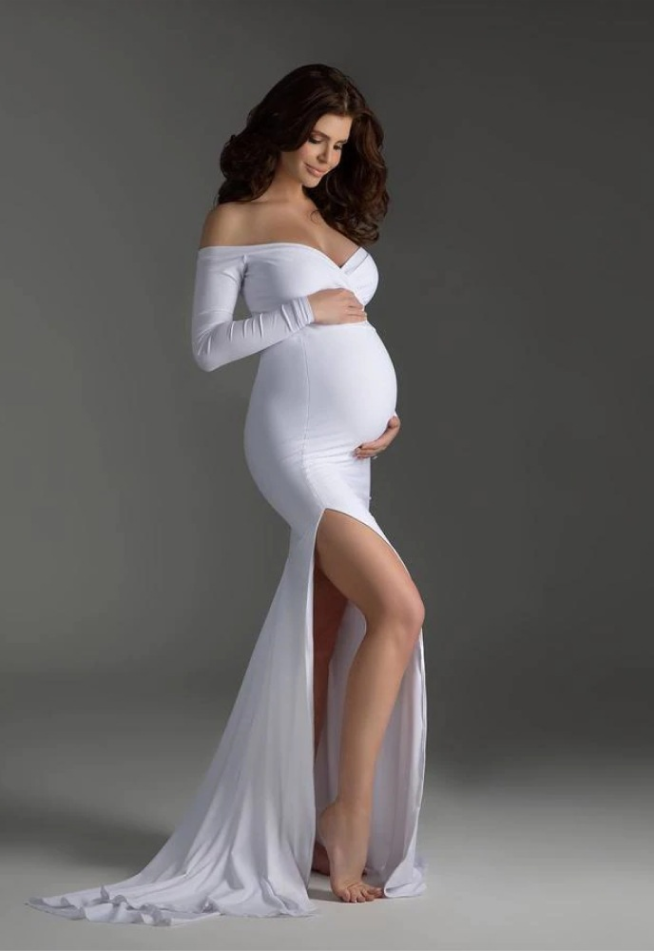
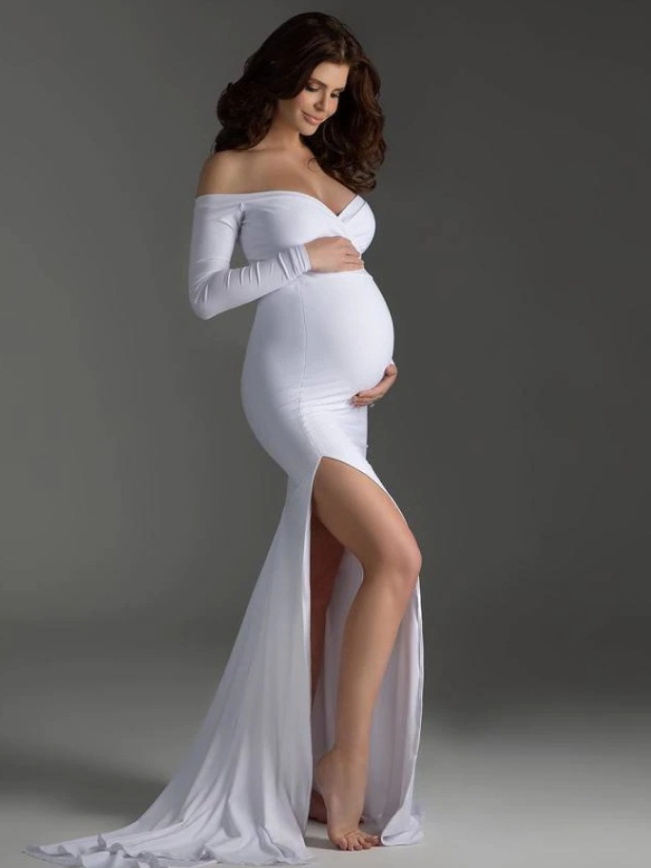
v0.3
1) Lisasin teksti banneri fotole, et see paigal püsiks;
2) tegin kõik pildid väiksemaks, et laadimine oleks kiirem

diff --git a/css/style.css b/css/style.css
@@ -1,55 +1,5 @@
 @import url('https://fonts.googleapis.com/css2?family=Roboto&family=Waiting+for+the+Sunrise&display=swap');
 
-/* vajalikud fondid on:
-menüü
-Font Roboto
-Weight 400, Regular
-Style normal
-Size 24px
-Line height 28.13px
-
-logo
-Font Waiting for the Sunrise
-Weight 300, Light
-Style normal
-Size 64px
-Line height 105.81px
-Letter 10%
-
-piltide all
-Font Roboto
-Weight 400, Regular
-Style normal
-Size 24px
-Line height 28.13px
-Align Center
-
-footeris
-Font Roboto
-Weight 400, Regular
-Style normal
-Size 18px
-Line height 21.09px
-Align Center
-*/
-
-.banner-image img, .main-image img {
-    width: 100%;
-}
-
-.banner-text {       
-    /*kujundus*/
-    font-family: "Waiting for the Sunrise", sans-serif;
-    font-weight: 300;
-    font-size: 64px;
-    line-height: 105.81px;
-    color: #ffffff;
-    /*positsioneerimine*/
-    position: absolute;
-    top: 20%;
-    left: 25%;
-    transform: translate(-50%, -50%);
-}
 
 .menu {
     display: flex;
@@ -66,38 +16,40 @@ Align Center
 }
 
 .nav ul li a {
-    font-family: "Roboto", sans-serif;
+    font-family: "Roboto";
     font-weight: 400;
     font-size: 24px;
     padding: 0 10px 0 10px;
+    color: #000000;
 }
 
-.gallery-image img {
-    width: 75%;
-}
-/*
-header h1 {
-    font-family: "Open Sans", sans-serif;
-    font-weight: 700;
-    font-size: 40px;
-    color: #ffffff;
-    line-height: 70px;
-    text-transform: uppercase;
-    text-shadow: 2px 2px 8px #000000;
+.banner {
+    display: flex;
+    justify-content: center;
 }
 
-header h2 {
-    font-family: "Open Sans", sans-serif;
-    font-weight: 300;
-    font-size: 15px;
-    letter-spacing: 5px;
-    color: #ffffff;
-    text-transform: uppercase;
-    font-style: italic;
+.banner-image img, .main-image img {
+    display: block;
+    margin-left: auto;
+    margin-right: auto;
+    width: 65%;
+    padding: 10px 0 20px 0
 }
-*/
 
 /*body*/
+
+.gallery-image img {
+    width: 90%;
+}
+
+.gallery-links a {
+    font-family: "Roboto";
+    font-weight: 400;
+    font-size: 24px;
+    text-decoration: none;
+    color: #000000;
+}
+
 
 .gallery-image {
     margin: 10px;
@@ -129,11 +81,34 @@ header h2 {
     justify-content: center;
 }
 
-/* Icons */
-
 
 /* Footer */
 
+.contact {
+    font-family: "Roboto";
+    font-weight: 400;
+    font-size: 18px;
+    padding: 20px 20px 20px 20px;
+    display: flex;
+    flex-flow: row;
+    justify-content: space-evenly; 
+    align-items: center;
+    color: #000000;
+}
+
+/* Fotomees OÜ | info@fotomees.ee | +372 5555 5555 
+.contact {
+    font-family: 'Roboto';
+    font-style: normal;
+    font-weight: 400;
+    font-size: 18px;
+    line-height: 21px;
+    flex-flow: row;
+    justify-content: space-evenly; 
+    align-items: center;
+
+    color: #000000;
+}*/
 /*
 @media only screen and (min-width: 800px) {
     header .header-banner {

diff --git a/index.html b/index.html
@@ -46,7 +46,6 @@
 				<div>
 					<a href="#" class="banner-image">
 						<div class="container"> <img src="images/image1.png" alt="piltnik" />
-						<p class=banner-text>Fotomees OÜ</p></div>
 					</a>
 				</div>
 			</section>
@@ -86,9 +85,8 @@
 		<div id="footer">
 			<!-- Contact -->
 				<div class="contact">
-					<ul class="menu">
-						<li>Fotomees OÜ</li><li>info@fotomees.ee</li><li>+372 5555 5555</li>
-					</ul>
+					<span> Fotomees OÜ | info@fotomees.ee | +372 5555 5555 </span>
+					<!--span>Fotomees OÜ</span><span>info@fotomees.ee</span><span>+372 5555 5555</span-->
 				</div>
 		</div>
 
